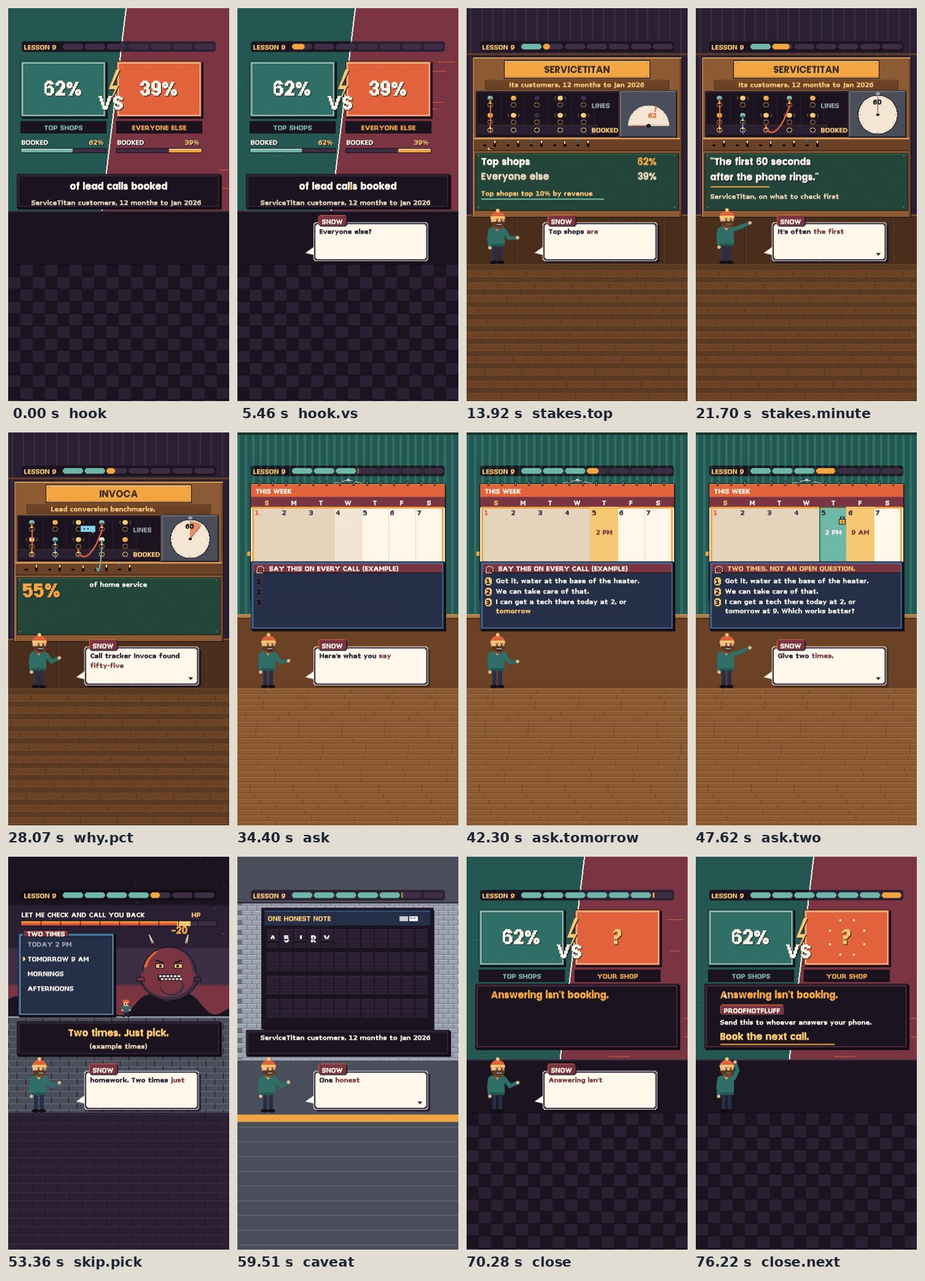
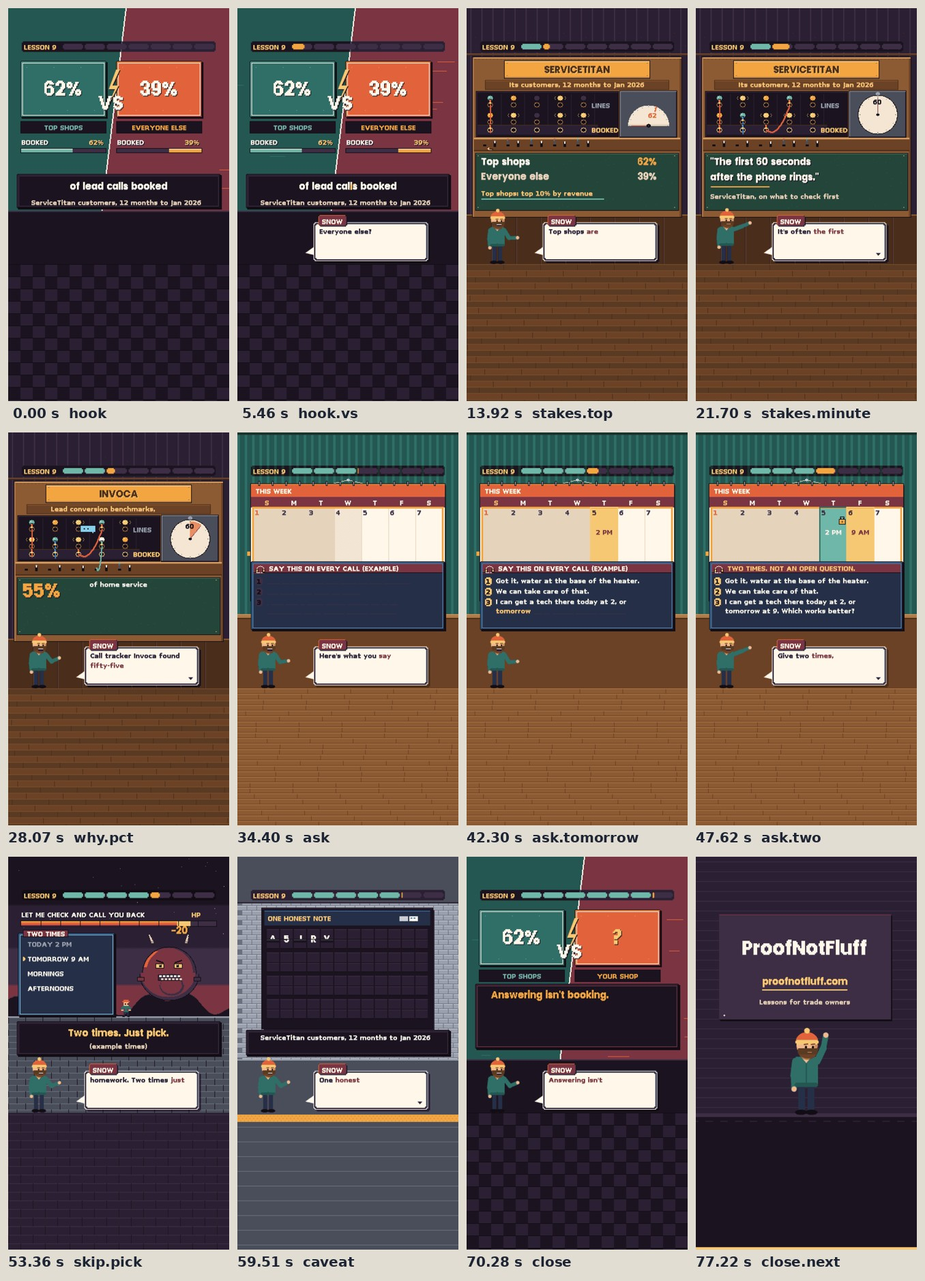
Studio: end card in the runtime (IMPROVE 000); lesson 9 rebuilt on it, every gate PASS
Claude-Session: https://claude.ai/code/session_01XMn4eLp3gGdkEjkqGas8V3

Changed region(s): [[0.7434, 0.6486, 0.9912, 0.8647], [0.9292, 0.9574, 0.9602, 0.9883], [0.7434, 0.9574, 0.7743, 0.9883]]

diff --git a/video/studio/videos/2026-11-05-book-the-call/03_cues/cues.js b/video/studio/videos/2026-11-05-book-the-call/03_cues/cues.js
@@ -1,1 +1,1 @@
-window.CUES = {"schema": "pnf.studio.cues.v1", "source": "whisper medium.en int8, re-spelled from script.md", "music": {"id": "rooms", "level": 0.16}, "duration": 76.522, "cues": [{"id": "hook", "level": 0, "quote": "Trade owners, top shops book", "sfx": "pop", "shift": 0.0, "pin": null, "text": "World: the versus screen. Frame 0: the hook card, fully settled: \"Top shops book\" / \"62%\" / \"of lead calls.\" The 62% in the accent. Source small: ServiceTitan customers, 12 months to Jan 2026. Behind it, the fighting-game select screen: TOP SHOPS on the left with a full score bar at 62, a big VS in the middle, the right slot dark. Host and dialog hidden. Sparks wait until 1 s.", "t": 0.0, "word": 0, "end": 8.836}, {"id": "hook.top", "level": 1, "quote": "percent of lead calls.", "sfx": null, "shift": 0.0, "pin": null, "text": "Sparks on the 62% and a ping on the TOP SHOPS score bar (the first motion after the settled cover).", "t": 2.82, "word": 6, "end": 4.86}, {"id": "hook.vs", "level": 1, "quote": "Everyone else? Thirty-nine.", "sfx": "tick", "shift": 0.0, "pin": null, "text": "The right slot lights: EVERYONE ELSE. Its score bar fills to 39 (count starts at 85% of 39), in grey; \"39%\" lands under it. The VS pulses once.", "t": 4.86, "word": 10, "end": 7.0}, {"id": "hook.line", "level": 1, "quote": "Here's how to ask", "sfx": "pop", "shift": 0.0, "pin": null, "text": "Chip LEAD CLINIC / LESSON 9 drops in at the top. Under the VS: \"The line that asks for the booking.\" Snow steps in small at the side and points at it.", "t": 7.0, "word": 13, "end": 8.836}, {"id": "stakes", "level": 0, "quote": "That's ServiceTitan's data on", "sfx": "whoosh", "shift": 0.0, "pin": null, "text": "World: the switchboard. An old telephone switchboard slides up: rows of lamps, jacks and cords; a brass plate on top reads SERVICETITAN. Lamps start to light one by one, ringing.", "t": 8.836, "word": 20, "end": 24.072}, {"id": "stakes.window", "level": 1, "quote": "the year up to", "sfx": null, "shift": 0.0, "pin": null, "text": "A brass strip under the plate: \"Its customers, 12 months to Jan 2026\".", "t": 11.336, "word": 26, "end": 13.316}, {"id": "stakes.top", "level": 1, "quote": "Top shops are the", "sfx": "tick", "shift": 0.0, "pin": null, "text": "The left half of the board gets a tag \"Top 10% by revenue\"; an operator's hand plugs a cord into a jack marked BOOKED.", "t": 13.316, "word": 32, "end": 16.496}, {"id": "stakes.near", "level": 1, "quote": "If you're near thirty-nine,", "sfx": "blip", "shift": 0.0, "pin": null, "text": "A dial gauge on the board's side swings to 39, the 62 mark on its rim in the accent.", "t": 16.496, "word": 41, "end": 19.376}, {"id": "stakes.marketing", "level": 1, "quote": "probably not your marketing.", "sfx": null, "shift": 0.0, "pin": null, "text": "A card slides onto the board: \"Near 39%? Probably not your marketing.\" Source line: ServiceTitan.", "t": 19.376, "word": 48, "end": 21.096}, {"id": "stakes.minute", "level": 1, "quote": "It's often the first", "sfx": "tick", "shift": 0.0, "pin": null, "text": "A 60-second sweep clock pops above the ringing lamp and starts its sweep: \"The first 60 seconds after the phone rings.\" (ServiceTitan's words, quoted).", "t": 21.096, "word": 52, "end": 24.072}, {"id": "why", "level": 0, "quote": "What goes wrong on", "sfx": "whoosh", "shift": 0.0, "pin": null, "text": "World: the switchboard, close in. The operator answers a lamp; two speech bubbles trade questions and answers (no words, dots).", "t": 24.072, "word": 61, "end": 33.796}, {"id": "why.invoca", "level": 1, "quote": "Call tracker Invoca found", "sfx": "tick", "shift": 0.0, "pin": null, "text": "The brass plate flips: INVOCA, Home Services Lead Conversion Benchmarks, Jul 2026.", "t": 26.152, "word": 67, "end": 27.472}, {"id": "why.pct", "level": 1, "quote": "fifty-five percent of home", "sfx": null, "shift": 0.0, "pin": null, "text": "\"55%\" slams onto the plate in the accent (count starts at 85% of 55); \"of home service businesses\" under it.", "t": 27.472, "word": 71, "end": 30.052}, {"id": "why.noask", "level": 1, "quote": "don't ask leads to", "sfx": "blip", "shift": 0.0, "pin": null, "text": "The line completes: \"don't ask leads to buy or book the job.\" Snow points at it from the side, clear of the text.", "t": 30.052, "word": 77, "end": 31.912}, {"id": "why.ends", "level": 1, "quote": "or book the job.", "sfx": "pop", "shift": 0.0, "pin": null, "text": "On \"job\", the answered call's cord drops out of its jack with no booking; its lamp goes dark; a red tag swings on the empty jack: NO ASK. It holds to the end of the take.", "t": 31.912, "word": 82, "end": 33.796}, {"id": "ask", "level": 0, "quote": "Here's what you say", "sfx": "whoosh", "shift": 0.0, "pin": null, "text": "World: the calendar lock. A week grid (Mon to Fri, morning and afternoon rows) fills the lower half; above it a headset card \"Say this (example)\" opens with its three numbered rows showing, empty. Header on a dark band: \"Ask on every call.\"", "t": 33.796, "word": 86, "end": 48.595}, {"id": "ask.l1", "level": 1, "quote": "Got it, water at", "sfx": "tick", "shift": 0.0, "pin": null, "text": "Row 1 types: \"Got it, water at the base of the heater.\"", "t": 36.216, "word": 93, "end": 38.536}, {"id": "ask.l2", "level": 1, "quote": "We can take care", "sfx": "tick", "shift": 0.0, "pin": null, "text": "Row 2 types: \"We can take care of that.\"", "t": 38.536, "word": 102, "end": 40.016}, {"id": "ask.l3", "level": 1, "quote": "I can get a", "sfx": "tick", "shift": 0.0, "pin": null, "text": "Row 3 types: \"I can get a tech there today at 2,\" and the TODAY 2 PM slot glows on the grid (tagged example).", "t": 40.016, "word": 108, "end": 41.696}, {"id": "ask.tomorrow", "level": 1, "quote": "or tomorrow at nine.", "sfx": "tick", "shift": 0.0, "pin": null, "text": "Row 3 goes on: \"or tomorrow at 9.\" The TOMORROW 9 AM slot glows too (tagged example).", "t": 41.696, "word": 117, "end": 43.396}, {"id": "ask.pick", "level": 1, "quote": "Which works better?", "sfx": "stamp", "shift": 0.0, "pin": null, "text": "Row 3 ends \"Which works better?\" One glowing slot clicks shut with a padlock and turns into a booked-job tile. The full card holds, unchanged, through the turn line below (3 s or more on screen complete).", "t": 43.396, "word": 121, "end": 45.035}, {"id": "ask.skip", "level": 1, "quote": "Here's the part people", "sfx": "whoosh", "shift": 0.0, "pin": null, "text": "Only the header band changes: \"The part people skip.\" The full card and the locked slot stay exactly where they are.", "t": 45.035, "word": 124, "end": 47.015}, {"id": "ask.two", "level": 1, "quote": "Give two times, not", "sfx": "tick", "shift": 0.0, "pin": null, "text": "The header band flips again: \"Two times. Not an open question.\" The two glowing slots pulse once; the card still holds.", "t": 47.015, "word": 129, "end": 48.595}, {"id": "skip", "level": 0, "quote": "when works for you", "sfx": "whoosh", "shift": 0.0, "pin": null, "text": "World: the boss fight. The grid wipes to an arena in the arcade look. The open question \"When works for you?\" pops in a speech box, and out of it rises the boss: LET ME CHECK AND CALL YOU BACK, with a full health bar.", "t": 48.595, "word": 133, "end": 58.913}, {"id": "skip.homework", "level": 1, "quote": "An open question is", "sfx": "blip", "shift": 0.0, "pin": null, "text": "The boss throws a homework sheet at the caller sprite; a caption under the arena: \"Open question = homework.\"", "t": 50.455, "word": 137, "end": 52.755}, {"id": "skip.pick", "level": 1, "quote": "Two times just need", "sfx": "tick", "shift": 0.0, "pin": null, "text": "Two attack buttons appear under the player: TODAY 2 PM / TOMORROW 9 AM (example). \"Two times. Just pick.\"", "t": 52.755, "word": 142, "end": 54.755}, {"id": "skip.st", "level": 1, "quote": "A ServiceTitan sample script", "sfx": "pop", "shift": 0.0, "pin": null, "text": "A quote card slides in above the arena (never over the boss bar): \"Are mornings or afternoons better for you?\" Source: ServiceTitan sample call script, Feb 2024.", "t": 54.755, "word": 148, "end": 57.355}, {"id": "skip.ko", "level": 1, "quote": "Mornings or afternoons?", "sfx": "stamp", "shift": 0.0, "pin": null, "text": "The buttons relabel MORNINGS / AFTERNOONS and fire; the boss's health bar drops to zero; KO flash: \"BOOKED.\" Sparks.", "t": 57.355, "word": 155, "end": 58.913}, {"id": "caveat", "level": 0, "quote": "One honest note.", "sfx": "whoosh", "shift": 0.0, "pin": null, "text": "World: the dispatch board. A magnetic dispatch board, columns Mon to Fri; job magnets clack into slots. Header on a dark band: \"One honest note.\"", "t": 58.913, "word": 158, "end": 69.682}, {"id": "caveat.pattern", "level": 1, "quote": "and a pattern, not", "sfx": "stamp", "shift": 0.0, "pin": null, "text": "A corner stamp: \"A pattern, not proof.\" Source line: ServiceTitan customers; correlated, not shown to cause.", "t": 62.073, "word": 164, "end": 64.693}, {"id": "caveat.friday", "level": 1, "quote": "So track your own", "sfx": "tick", "shift": 0.0, "pin": null, "text": "The FRI column lights; a note magnet: \"Every Friday\".", "t": 64.693, "word": 169, "end": 66.833}, {"id": "caveat.formula", "level": 1, "quote": "Booked calls divided by", "sfx": "pop", "shift": 0.0, "pin": null, "text": "A formula card snaps into the Friday column: \"Booking rate = booked calls / lead calls\". It holds to the end of the take.", "t": 66.833, "word": 175, "end": 69.682}, {"id": "close", "level": 0, "quote": "Answering isn't booking.", "sfx": "pop", "shift": 0.0, "pin": null, "text": "World: the versus screen, rematch. TOP SHOPS 62% on the left; the right slot now reads YOUR SHOP with a blinking \"?\". \"Answering isn't booking.\" slams in above, in the accent.", "t": 69.682, "word": 181, "end": 76.522}, {"id": "close.send", "level": 1, "quote": "Send this to whoever", "sfx": "sting", "shift": 0.0, "pin": null, "text": "ProofNotFluff plate slams on; send line: \"Send this to whoever answers your phone.\" One column, one left edge, host small at the side.", "t": 71.622, "word": 184, "end": 73.702}, {"id": "close.next", "level": 1, "quote": "book the next call.", "sfx": null, "shift": 0.0, "pin": null, "text": "\"Book the next call.\" lands with an accent line sweeping under it; the \"?\" flips to a lit lamp; Snow waves.", "t": 73.702, "word": 192, "end": 76.522}]};
+window.CUES = {"schema": "pnf.studio.cues.v1", "source": "whisper medium.en int8, re-spelled from script.md", "music": {"id": "rooms", "level": 0.16}, "duration": 77.522, "cues": [{"id": "hook", "level": 0, "quote": "Trade owners, top shops book", "sfx": "pop", "shift": 0.0, "pin": null, "text": "World: the versus screen. Frame 0: the hook card, fully settled: \"Top shops book\" / \"62%\" / \"of lead calls.\" The 62% in the accent. Source small: ServiceTitan customers, 12 months to Jan 2026. Behind it, the fighting-game select screen: TOP SHOPS on the left with a full score bar at 62, a big VS in the middle, the right slot dark. Host and dialog hidden. Sparks wait until 1 s.", "t": 0.0, "word": 0, "end": 8.836}, {"id": "hook.top", "level": 1, "quote": "percent of lead calls.", "sfx": null, "shift": 0.0, "pin": null, "text": "Sparks on the 62% and a ping on the TOP SHOPS score bar (the first motion after the settled cover).", "t": 2.82, "word": 6, "end": 4.86}, {"id": "hook.vs", "level": 1, "quote": "Everyone else? Thirty-nine.", "sfx": "tick", "shift": 0.0, "pin": null, "text": "The right slot lights: EVERYONE ELSE. Its score bar fills to 39 (count starts at 85% of 39), in grey; \"39%\" lands under it. The VS pulses once.", "t": 4.86, "word": 10, "end": 7.0}, {"id": "hook.line", "level": 1, "quote": "Here's how to ask", "sfx": "pop", "shift": 0.0, "pin": null, "text": "Chip LEAD CLINIC / LESSON 9 drops in at the top. Under the VS: \"The line that asks for the booking.\" Snow steps in small at the side and points at it.", "t": 7.0, "word": 13, "end": 8.836}, {"id": "stakes", "level": 0, "quote": "That's ServiceTitan's data on", "sfx": "whoosh", "shift": 0.0, "pin": null, "text": "World: the switchboard. An old telephone switchboard slides up: rows of lamps, jacks and cords; a brass plate on top reads SERVICETITAN. Lamps start to light one by one, ringing.", "t": 8.836, "word": 20, "end": 24.072}, {"id": "stakes.window", "level": 1, "quote": "the year up to", "sfx": null, "shift": 0.0, "pin": null, "text": "A brass strip under the plate: \"Its customers, 12 months to Jan 2026\".", "t": 11.336, "word": 26, "end": 13.316}, {"id": "stakes.top", "level": 1, "quote": "Top shops are the", "sfx": "tick", "shift": 0.0, "pin": null, "text": "The left half of the board gets a tag \"Top 10% by revenue\"; an operator's hand plugs a cord into a jack marked BOOKED.", "t": 13.316, "word": 32, "end": 16.496}, {"id": "stakes.near", "level": 1, "quote": "If you're near thirty-nine,", "sfx": "blip", "shift": 0.0, "pin": null, "text": "A dial gauge on the board's side swings to 39, the 62 mark on its rim in the accent.", "t": 16.496, "word": 41, "end": 19.376}, {"id": "stakes.marketing", "level": 1, "quote": "probably not your marketing.", "sfx": null, "shift": 0.0, "pin": null, "text": "A card slides onto the board: \"Near 39%? Probably not your marketing.\" Source line: ServiceTitan.", "t": 19.376, "word": 48, "end": 21.096}, {"id": "stakes.minute", "level": 1, "quote": "It's often the first", "sfx": "tick", "shift": 0.0, "pin": null, "text": "A 60-second sweep clock pops above the ringing lamp and starts its sweep: \"The first 60 seconds after the phone rings.\" (ServiceTitan's words, quoted).", "t": 21.096, "word": 52, "end": 24.072}, {"id": "why", "level": 0, "quote": "What goes wrong on", "sfx": "whoosh", "shift": 0.0, "pin": null, "text": "World: the switchboard, close in. The operator answers a lamp; two speech bubbles trade questions and answers (no words, dots).", "t": 24.072, "word": 61, "end": 33.796}, {"id": "why.invoca", "level": 1, "quote": "Call tracker Invoca found", "sfx": "tick", "shift": 0.0, "pin": null, "text": "The brass plate flips: INVOCA, Home Services Lead Conversion Benchmarks, Jul 2026.", "t": 26.152, "word": 67, "end": 27.472}, {"id": "why.pct", "level": 1, "quote": "fifty-five percent of home", "sfx": null, "shift": 0.0, "pin": null, "text": "\"55%\" slams onto the plate in the accent (count starts at 85% of 55); \"of home service businesses\" under it.", "t": 27.472, "word": 71, "end": 30.052}, {"id": "why.noask", "level": 1, "quote": "don't ask leads to", "sfx": "blip", "shift": 0.0, "pin": null, "text": "The line completes: \"don't ask leads to buy or book the job.\" Snow points at it from the side, clear of the text.", "t": 30.052, "word": 77, "end": 31.912}, {"id": "why.ends", "level": 1, "quote": "or book the job.", "sfx": "pop", "shift": 0.0, "pin": null, "text": "On \"job\", the answered call's cord drops out of its jack with no booking; its lamp goes dark; a red tag swings on the empty jack: NO ASK. It holds to the end of the take.", "t": 31.912, "word": 82, "end": 33.796}, {"id": "ask", "level": 0, "quote": "Here's what you say", "sfx": "whoosh", "shift": 0.0, "pin": null, "text": "World: the calendar lock. A week grid (Mon to Fri, morning and afternoon rows) fills the lower half; above it a headset card \"Say this (example)\" opens with its three numbered rows showing, empty. Header on a dark band: \"Ask on every call.\"", "t": 33.796, "word": 86, "end": 48.595}, {"id": "ask.l1", "level": 1, "quote": "Got it, water at", "sfx": "tick", "shift": 0.0, "pin": null, "text": "Row 1 types: \"Got it, water at the base of the heater.\"", "t": 36.216, "word": 93, "end": 38.536}, {"id": "ask.l2", "level": 1, "quote": "We can take care", "sfx": "tick", "shift": 0.0, "pin": null, "text": "Row 2 types: \"We can take care of that.\"", "t": 38.536, "word": 102, "end": 40.016}, {"id": "ask.l3", "level": 1, "quote": "I can get a", "sfx": "tick", "shift": 0.0, "pin": null, "text": "Row 3 types: \"I can get a tech there today at 2,\" and the TODAY 2 PM slot glows on the grid (tagged example).", "t": 40.016, "word": 108, "end": 41.696}, {"id": "ask.tomorrow", "level": 1, "quote": "or tomorrow at nine.", "sfx": "tick", "shift": 0.0, "pin": null, "text": "Row 3 goes on: \"or tomorrow at 9.\" The TOMORROW 9 AM slot glows too (tagged example).", "t": 41.696, "word": 117, "end": 43.396}, {"id": "ask.pick", "level": 1, "quote": "Which works better?", "sfx": "stamp", "shift": 0.0, "pin": null, "text": "Row 3 ends \"Which works better?\" One glowing slot clicks shut with a padlock and turns into a booked-job tile. The full card holds, unchanged, through the turn line below (3 s or more on screen complete).", "t": 43.396, "word": 121, "end": 45.035}, {"id": "ask.skip", "level": 1, "quote": "Here's the part people", "sfx": "whoosh", "shift": 0.0, "pin": null, "text": "Only the header band changes: \"The part people skip.\" The full card and the locked slot stay exactly where they are.", "t": 45.035, "word": 124, "end": 47.015}, {"id": "ask.two", "level": 1, "quote": "Give two times, not", "sfx": "tick", "shift": 0.0, "pin": null, "text": "The header band flips again: \"Two times. Not an open question.\" The two glowing slots pulse once; the card still holds.", "t": 47.015, "word": 129, "end": 48.595}, {"id": "skip", "level": 0, "quote": "when works for you", "sfx": "whoosh", "shift": 0.0, "pin": null, "text": "World: the boss fight. The grid wipes to an arena in the arcade look. The open question \"When works for you?\" pops in a speech box, and out of it rises the boss: LET ME CHECK AND CALL YOU BACK, with a full health bar.", "t": 48.595, "word": 133, "end": 58.913}, {"id": "skip.homework", "level": 1, "quote": "An open question is", "sfx": "blip", "shift": 0.0, "pin": null, "text": "The boss throws a homework sheet at the caller sprite; a caption under the arena: \"Open question = homework.\"", "t": 50.455, "word": 137, "end": 52.755}, {"id": "skip.pick", "level": 1, "quote": "Two times just need", "sfx": "tick", "shift": 0.0, "pin": null, "text": "Two attack buttons appear under the player: TODAY 2 PM / TOMORROW 9 AM (example). \"Two times. Just pick.\"", "t": 52.755, "word": 142, "end": 54.755}, {"id": "skip.st", "level": 1, "quote": "A ServiceTitan sample script", "sfx": "pop", "shift": 0.0, "pin": null, "text": "A quote card slides in above the arena (never over the boss bar): \"Are mornings or afternoons better for you?\" Source: ServiceTitan sample call script, Feb 2024.", "t": 54.755, "word": 148, "end": 57.355}, {"id": "skip.ko", "level": 1, "quote": "Mornings or afternoons?", "sfx": "stamp", "shift": 0.0, "pin": null, "text": "The buttons relabel MORNINGS / AFTERNOONS and fire; the boss's health bar drops to zero; KO flash: \"BOOKED.\" Sparks.", "t": 57.355, "word": 155, "end": 58.913}, {"id": "caveat", "level": 0, "quote": "One honest note.", "sfx": "whoosh", "shift": 0.0, "pin": null, "text": "World: the dispatch board. A magnetic dispatch board, columns Mon to Fri; job magnets clack into slots. Header on a dark band: \"One honest note.\"", "t": 58.913, "word": 158, "end": 69.682}, {"id": "caveat.pattern", "level": 1, "quote": "and a pattern, not", "sfx": "stamp", "shift": 0.0, "pin": null, "text": "A corner stamp: \"A pattern, not proof.\" Source line: ServiceTitan customers; correlated, not shown to cause.", "t": 62.073, "word": 164, "end": 64.693}, {"id": "caveat.friday", "level": 1, "quote": "So track your own", "sfx": "tick", "shift": 0.0, "pin": null, "text": "The FRI column lights; a note magnet: \"Every Friday\".", "t": 64.693, "word": 169, "end": 66.833}, {"id": "caveat.formula", "level": 1, "quote": "Booked calls divided by", "sfx": "pop", "shift": 0.0, "pin": null, "text": "A formula card snaps into the Friday column: \"Booking rate = booked calls / lead calls\". It holds to the end of the take.", "t": 66.833, "word": 175, "end": 69.682}, {"id": "close", "level": 0, "quote": "Answering isn't booking.", "sfx": "pop", "shift": 0.0, "pin": null, "text": "World: the versus screen, rematch. TOP SHOPS 62% on the left; the right slot now reads YOUR SHOP with a blinking \"?\". \"Answering isn't booking.\" slams in above, in the accent.", "t": 69.682, "word": 181, "end": 77.522}, {"id": "close.send", "level": 1, "quote": "Send this to whoever", "sfx": "sting", "shift": 0.0, "pin": null, "text": "ProofNotFluff plate slams on; send line: \"Send this to whoever answers your phone.\" One column, one left edge, host small at the side.", "t": 71.622, "word": 184, "end": 73.702}, {"id": "close.next", "level": 1, "quote": "book the next call.", "sfx": null, "shift": 0.0, "pin": null, "text": "\"Book the next call.\" lands with an accent line sweeping under it; the \"?\" flips to a lit lamp; Snow waves.", "t": 73.702, "word": 192, "end": 77.522}]};

diff --git a/video/studio/_runtime/player.js b/video/studio/_runtime/player.js
@@ -238,6 +238,36 @@
     }
   }
 
+  // the end card (IMPROVE 000, Oct 29): once the last word has landed, a plum plate drops in on whole low-res pixels and
+  // holds the ProofNotFluff lockup and the site, music only, to the end of the tail (anim.py cues gives every lesson 2.9 s
+  // after the last word). The host and the dialog box step out under it. SCENE.endCard = false turns it off.
+  let END_T = 1e9;
+  function endCard(k, T) {
+    if (T < END_T) return false;
+    const ctx = k.ctx, f = Math.floor((T - END_T) * FPS + 0.005);
+    const P = (x, y, w, h, c) => { if (w > 0 && h > 0) { ctx.fillStyle = c; ctx.fillRect(Math.round(x) * 3, Math.round(y) * 3, Math.round(w) * 3, Math.round(h) * 3); } };
+    const drop = Math.round(640 * Math.pow(1 - Math.min(1, f / 9), 3));   // low-res pixels still to fall
+    ctx.save(); ctx.translate(0, -drop * 3);
+    P(0, 0, 360, 640, '#2B2033'); P(0, 636, 360, 4, '#F7C873');
+    for (let y = 8; y < 636; y += 16) P(0, y, 360, 1, '#3D2E45');   // faint scanlines, so the plate reads as a screen
+    P(40, 96, 280, 172, '#120D14'); P(38, 94, 280, 172, '#3D2E45'); P(38, 94, 280, 1, '#7A3442'); P(38, 265, 280, 1, '#120D14');
+    const fit = (s, sizes, maxW) => sizes.find((z) => k.measure(s, {size: z}) <= maxW) || sizes[sizes.length - 1];
+    const z1 = fit('ProofNotFluff', [132, 99, 66], 780);
+    k.text('ProofNotFluff', 534, 380, {size: z1, color: '#FFF7EA', align: 'center', lint: drop === 0});
+    k.text('proofnotfluff.com', 534, 576, {size: 66, color: '#F7C873', align: 'center', lint: drop === 0});
+    const uw = Math.round(k.measure('proofnotfluff.com', {size: 66}) / 3), ux = 178 - Math.round(uw / 2);
+    if (f >= 12) P(ux, 216, Math.min(uw, (f - 12) * 8), 2, '#F7C873');   // the site's underline draws on
+    k.text('Lessons for trade owners', 534, 690, {size: 39, color: '#E6D3BC', align: 'center', lint: drop === 0});
+    // a twinkle walks the plate's corners, one every 8 frames, so the held card is never a still picture
+    const pts = [[46, 102], [310, 102], [310, 258], [46, 258]], g = f >= 10 ? Math.floor((f - 10) / 8) % 4 : -1;
+    if (g >= 0) { const [x, y] = pts[g], s = [0, 1, 2, 1][Math.floor(f / 2) % 4]; P(x, y, 1, 1, '#FFF7EA'); for (let i = 1; i <= s; i++) { P(x - i, y, 1, 1, '#FFF7EA'); P(x + i, y, 1, 1, '#FFF7EA'); P(x, y - i, 1, 1, '#FFF7EA'); P(x, y + i, 1, 1, '#FFF7EA'); } }
+    // Snow waves goodbye on a strip of floor under the plate
+    P(0, 418, 360, 6, '#3D2E45'); P(0, 424, 360, 212, '#1B1420'); for (let x = (f >> 2) % 24 - 24; x < 360; x += 24) P(x, 430, 12, 2, '#2B2033');
+    k.snow(540, 1254, {scale: 0.86, pose: 'wave', face: 1});
+    ctx.restore();
+    return true;
+  }
+
   window.drawAt = function (T) {
     const main = document.getElementById('c'); const mctx = main.getContext('2d');
     const pixel = look.scale !== 1;
@@ -276,6 +306,8 @@
     if (fn) ret = fn(ks, Ts, sec) || {};
     ctx.restore();
     let head = [540, 760];
+    const ending = look.bitmap && window.SCENE.endCard !== false && T >= END_T;
+    if (ending) { ret.host = false; ret.speech = false; }
     if (ret.host !== false && window.SCENE.host !== false) {
       const hp = typeof ret.hostPose === 'string' ? ret.hostPose : (k.talking() ? 'talk' : 'stand');
       const life = idleOf(T, hp);
@@ -306,6 +338,7 @@
       hud(k, T, tops, sec);
       transition(ctx, T, tops, sec, U, head);   // room to room, hiding the cut
     }
+    if (ending) { if (window.__boxes) window.__boxes.length = 0; window.__tag = 'scene'; endCard(k, T); }   // the card covers the scene, so only its own words count for lint
     window.__tag = 'scene';
     if (pixel) {
       quantize(lowCanvas);
@@ -336,7 +369,8 @@
     }
     await document.fonts.ready;
     await Promise.all(['700 40px Poppins', '600 40px Poppins', '600 40px Inter', '700 40px Inter'].map((f) => document.fonts.load(f)));
-    phrases = buildPhrases(words);   // after the fonts load, so the line breaks match what is drawn
+    phrases = buildPhrases(words);
+    if (words.length) END_T = words[words.length - 1].end + 0.35;   // after the fonts load, so the line breaks match what is drawn
     window.DURATION = window.CUES.duration;
     survey = runSurvey();
     window.STUDIO = {env, survey, trauma, look, camera};   // for checks: blinks, pose runs, rooms, the shake

diff --git a/video/studio/anim.py b/video/studio/anim.py
@@ -833,7 +833,7 @@ def cmd_cues(slug):
     if bad:
         raise SystemExit("ERROR cues: " + "; ".join(bad))
     cues[0]["t"] = 0.0
-    duration = round(wd["end"] + 1.9, 3)
+    duration = round(wd["end"] + 2.9, 3)   # 2.9 s tail: the end card (player.js, IMPROVE 000)
     for i, c in enumerate(cues):
         nxt = next((d for d in cues[i + 1:] if d["level"] <= c["level"]), None)
         c["end"] = nxt["t"] if nxt else duration

diff --git a/video/studio/IMPROVE.md b/video/studio/IMPROVE.md
@@ -36,6 +36,11 @@ The lab (Tue, Thu, Sat) ranks this list from its benchmark against _shared/style
 12. Visual: a seasonal touch per week (snow outside the half-built house in winter, leaves in fall).
 
 ## Done (newest first: date, item, what changed, proof)
+- 2026-10-29 (daily run): end card (backlog 000). player.js draws a plum plate that drops in on whole pixels 0.35 s after
+  the last word: ProofNotFluff, proofnotfluff.com (underline draws on), "Lessons for trade owners", Snow waving on a floor
+  strip, a corner twinkle every 8 frames; host and dialog step out, lint counts only the card's words. `cues` tail 1.9 s
+  -> 2.9 s. Proof: stills of lesson 9 (77.2 s) and lesson 1 (88.4 s); lesson 9 rebuilt and re-gated on it, every gate
+  PASS (buyer follow_or_link yes; design 4.71 asks for 3 s or more and the double game frame on the card: next).
 - 2026-10-29: style reference board (backlog 000) in _shared/style-board/ (six of our best frames, keep and push notes,
   the target spec); the lab (.claude/skills/video-lab, Tue Thu Sat) benchmarks against it. Queue rule: `ready` keeps a
   rebuilt lesson's place, `waiting` lists unposted lessons, the daily run rebuilds instead of making when 3 or more wait.

diff --git a/video/studio/LEARNINGS.md b/video/studio/LEARNINGS.md
@@ -41,6 +41,11 @@ The studio learns in three loops (Todd, Oct 28, 2026, 3:43 pm: "make this video 
 - Pixel fonts: glyphs trimmed to ink with a 1 px letter gap and a clear word gap; an s that is open.
 
 ## Fault log
+- 2026-10-29 book-the-call rebuild (queue rule, end card runtime): every gate PASS at round 0. Polish named: end card
+  holds 2.5 s (aim 3+), card wants the game frame; boss -30 under the dither (named twice now: fix next rebuild); host
+  arrives at 7.6 s; dialog words 38 to 40 px (lint type floor is IMPROVE 00b).
+- 2026-10-29 monthly-first (lesson 10): voiced before the queue rule landed (7 lessons waiting), parked at words: takes 2
+  and 3 slow (150, 143 wpm), 82.8 s over the 75 s aim; tighten takes 2 and 3 and re-roll before cues when it is made.
 - 2026-10-28 first-reply: design, type 3 (s read as e) -> font recut. Critic, overlaps x3 -> lint built. Facts-captions,
   Fiverr qualifier missing in line 1 -> rule above. Design, cramped build scene -> host can step back (hostScale).
 - 2026-10-28 three-prices: facts and golden, hook overclaim ('Not 1') -> card says 'on 57% of home jobs', voice 'usually'.
